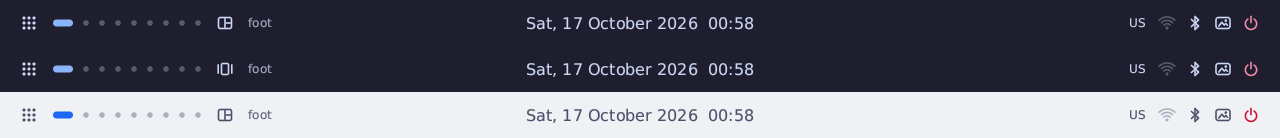
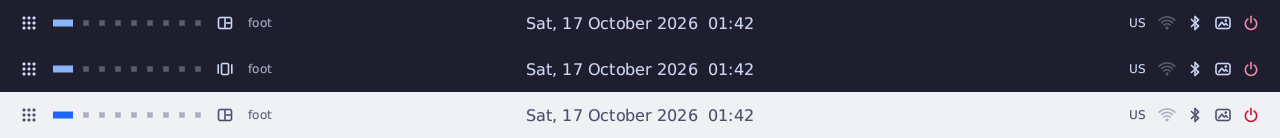
Без эффектов: прямые углы, сплошные цвета, свои цвета бара
Убраны скругления панели, кнопок, меню и миниатюр, полупрозрачный фон, затемнение вокруг меню
и наследование акцента от RefursWM. Цвета — только #RRGGBB, подсветка — отдельный сплошной цвет
(hover, menu_hover, menu_accent_hover), поля обоев — цвет wallpaper из темы бара. От RefursWM
приходит только «тёмная/светлая», меню получают её аргументом d/l.

Changed region(s): [[0.5625, 0.7826, 0.5938, 0.8986], [0.5625, 0.1159, 0.5938, 0.2319], [0.5625, 0.4638, 0.5938, 0.5507]]

diff --git a/README.md b/README.md
@@ -23,7 +23,7 @@
 - **Обои.** Выбор с миниатюрами или случайные.
 - **Лаунчер** приложений и команд с нечётким поиском и иконками.
 - **Меню питания:** блокировка, выход, сон, гибернация, перезагрузка, выключение.
-- **Тема** тёмная или светлая — та же, что у RefursWM. Акцент — цвет активной рамки окна. Переключается сразу, по Super+Shift+T.
+- **Тема** тёмная или светлая — та же, что у RefursWM, переключается сразу, по Super+Shift+T. Цвета у бара свои (`config.zig`) и от цветов RefursWM не зависят. Всё рисуется сплошными цветами: без скруглений, прозрачности и затемнения вокруг меню.
 - **Монитор.** Своя панель на каждом, подключение «на ходу», дробный масштаб.
 
 ## Установка
@@ -94,7 +94,7 @@ Grant выдаётся по **точному абсолютному пути**. 
 В `config.zig`:
 - элементы слева, по центру и справа;
 - геометрия, шрифты, формат часов;
-- две палитры: тёмная и светлая;
+- две палитры бара, тёмная и светлая: цвета `#RRGGBB` (только непрозрачные) для панели, подсветки, рабочих столов, значков, меню и полей обоев. Они отдельные от цветов RefursWM — те настраиваются в его `config.zig`;
 - каталог и режим обоев (`fill` / `fit`);
 - команды reboot и poweroff без logind (doas, с запасной командой sudo);
 - Bluetooth по требованию;
